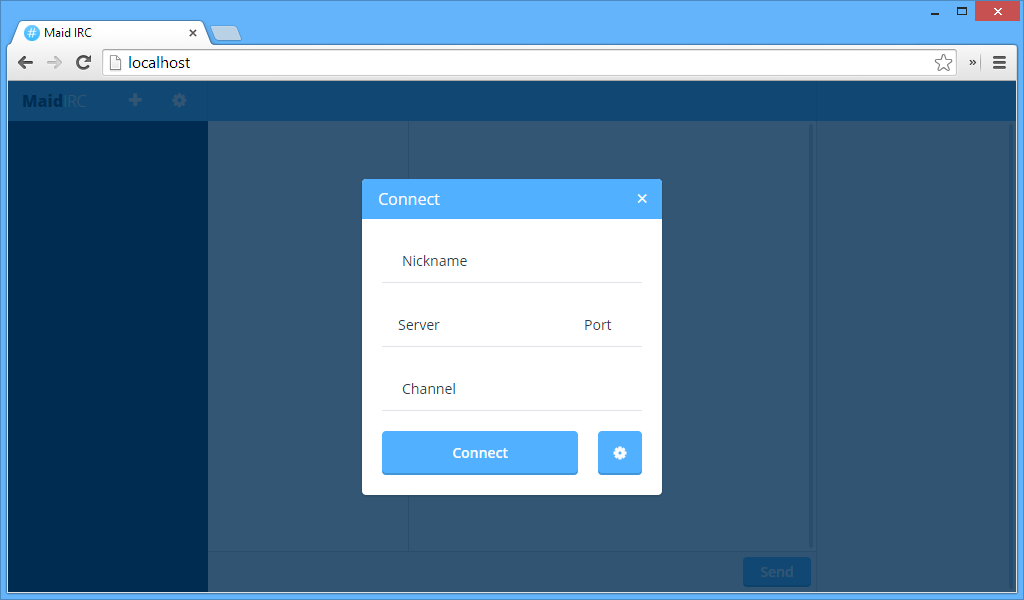
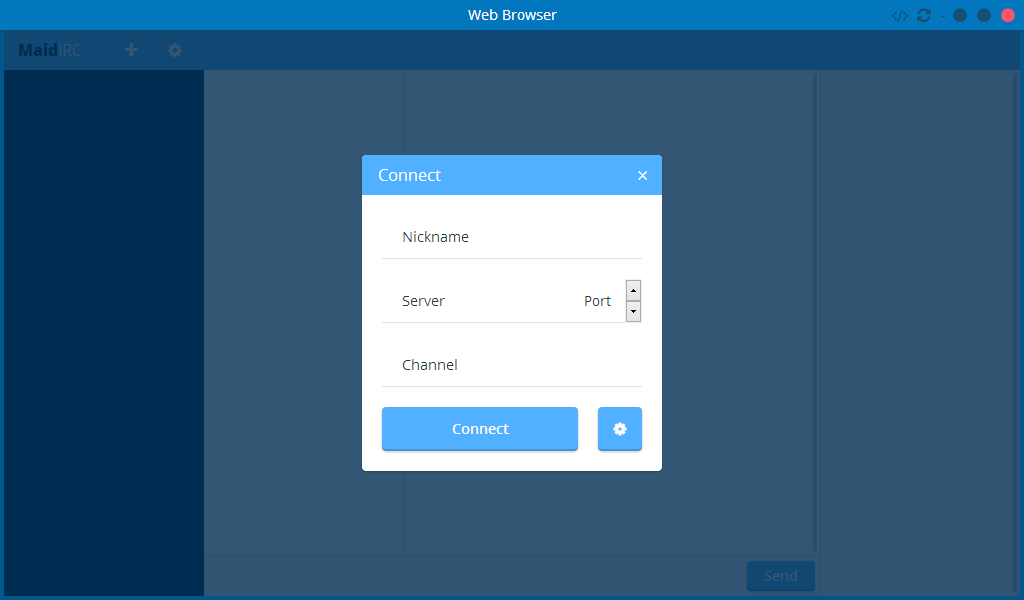
Updated login.png screenshot, updated .travis.yml with npm deploying, added console.log() to raw messages env in development

diff --git a/modules/maidIrc.js b/modules/maidIrc.js
@@ -3,7 +3,7 @@
 var irc = require("irc");
 var allClients = [];
 
-var maidIrc = function (io) {
+var maidIrc = function (io, env) {
 	function createClient (socket, info, clientId) {
 		// Create the IRC client instance
 		console.log("Creating new IRC client instance.");
@@ -48,6 +48,10 @@ var maidIrc = function (io) {
 		});
 
 		client.on("raw", function (message) {
+			if (env === "development") {
+				console.log(message);
+			}
+			
 			socket.emit("raw", [clientId, message]);
 		});
 

diff --git a/maid.js b/maid.js
@@ -104,12 +104,12 @@ var server,
 
 function httpServer () {
 	var server = http.createServer(app).listen(config.http_port, config.http_host);
-	maidIrc(io.listen(server));
+	maidIrc(io.listen(server), env);
 }
 
 function httpsServer () {
 	var server = http.createServer({key: config.private_key, cert: config.certificate}, app).listen(config.https_port, config.http_host);
-	maidIrc(io.listen(server));
+	maidIrc(io.listen(server), env);
 }
 
 if (config.enable_https >= 1) { // If HTTPS
